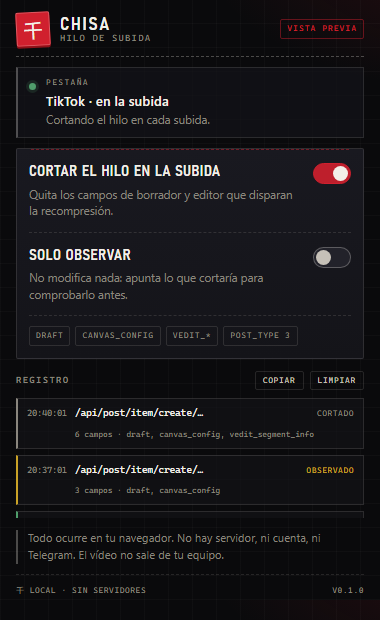
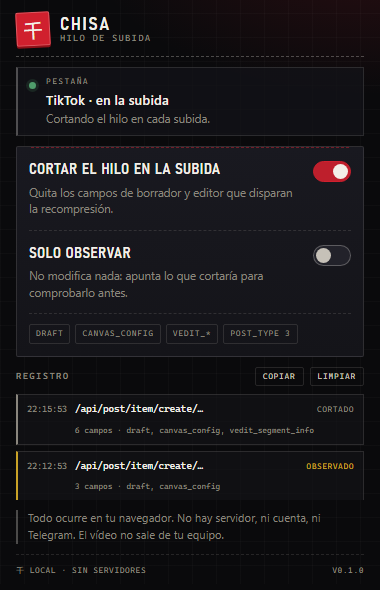
popup mas compacto y capturas al dia

diff --git a/popup.css b/popup.css
@@ -123,7 +123,7 @@ body {
   align-items: flex-start;
   gap: 10px;
   margin: 10px 0 0;
-  padding: 9px 11px;
+  padding: 8px 11px;
   background: rgba(20, 20, 25, 0.72);
   border: 1px solid var(--rule);
   border-left: 2px solid var(--rule-strong);
@@ -316,7 +316,7 @@ body {
 /* ---------------------------------------------------------------- */
 
 .log {
-  margin-top: 12px;
+  margin-top: 10px;
 }
 
 .log-head {
@@ -362,7 +362,7 @@ body {
 .hits {
   display: grid;
   gap: 6px;
-  max-height: 120px;
+  max-height: 106px;
   margin: 8px 0 0;
   padding: 0;
   list-style: none;
@@ -441,7 +441,7 @@ body {
 /* ---------------------------------------------------------------- */
 
 .note {
-  margin: 12px 0 0;
+  margin: 10px 0 0;
   padding-left: 10px;
   border-left: 2px solid var(--rule-strong);
   font-size: 0.7rem;

diff --git a/index.html b/index.html
@@ -64,8 +64,8 @@
         </div>
 
         <figure class="shot">
-          <img src="./docs/preview.png" width="380" height="600" alt="Popup de la extensión: estado, interruptores y registro de cortes." />
-          <figcaption>el popup · 380 × 600</figcaption>
+          <img src="./docs/preview.png" width="380" height="590" alt="Popup de la extensión: estado, interruptores y registro de cortes." />
+          <figcaption>el popup · 380 × 590</figcaption>
         </figure>
       </section>
 
